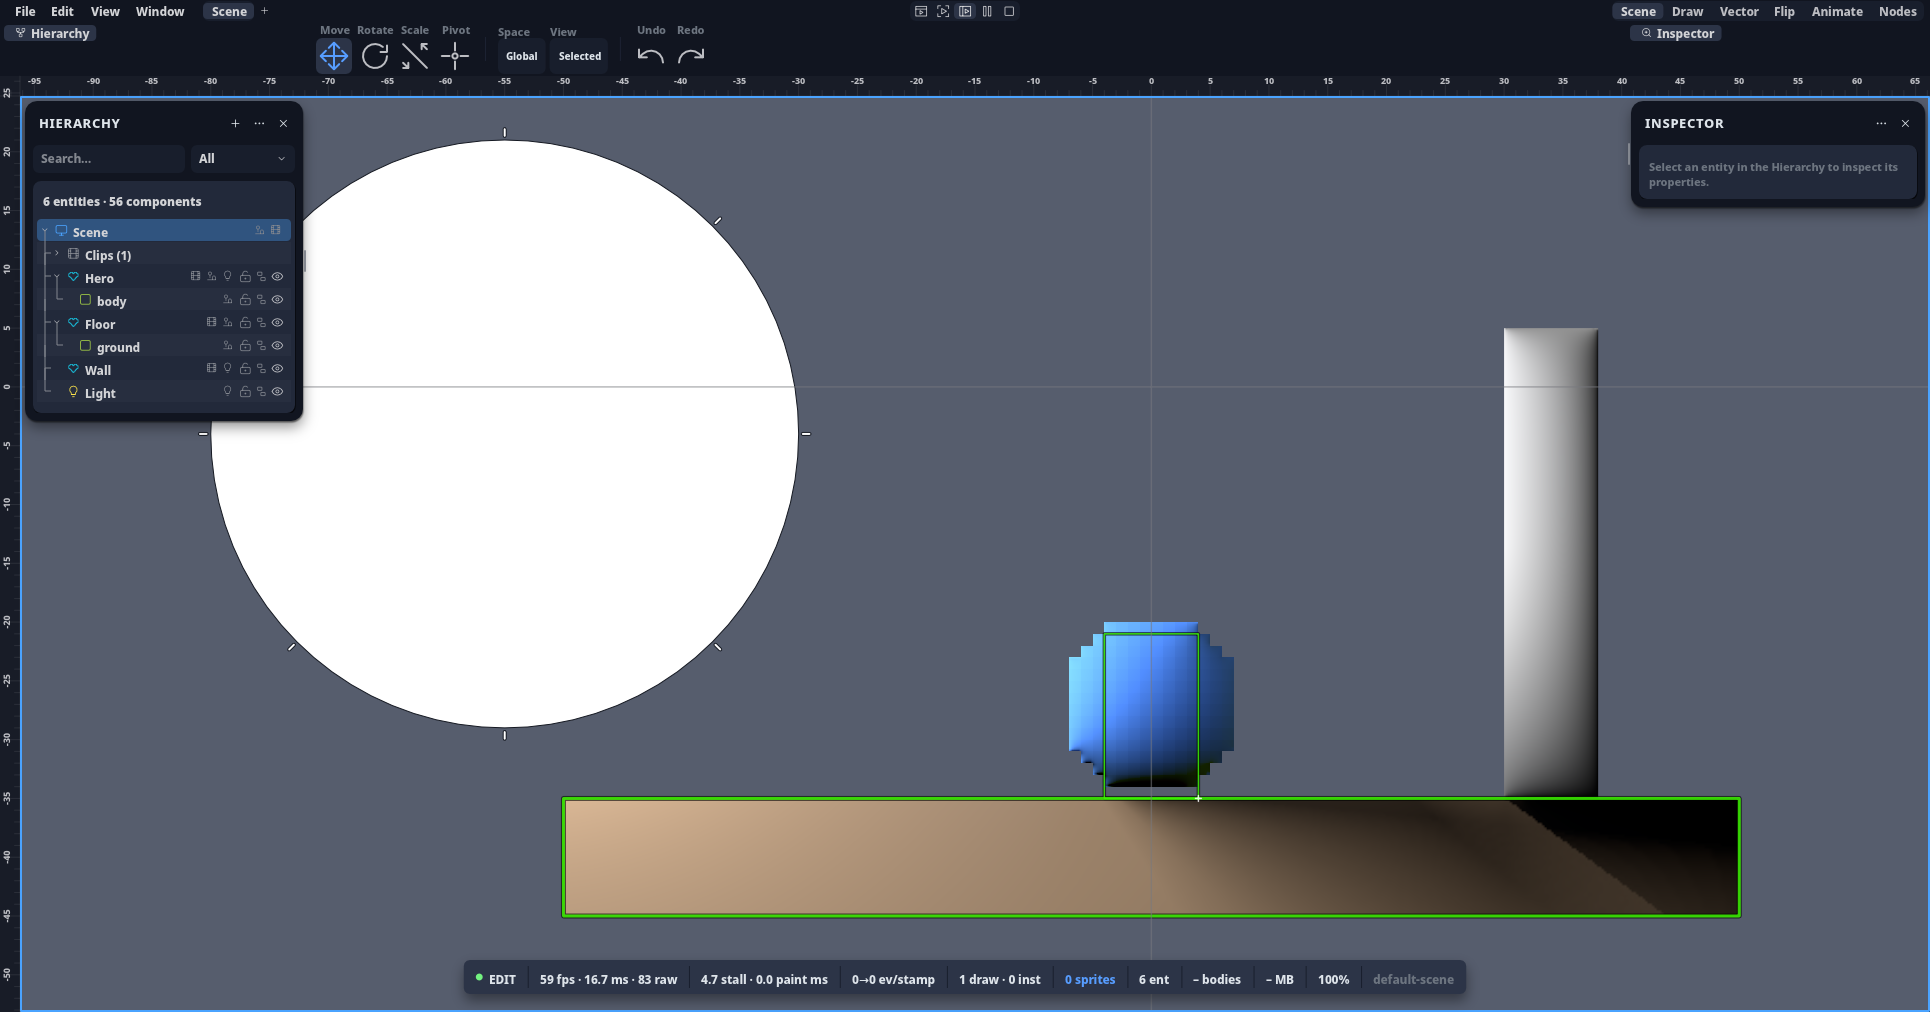
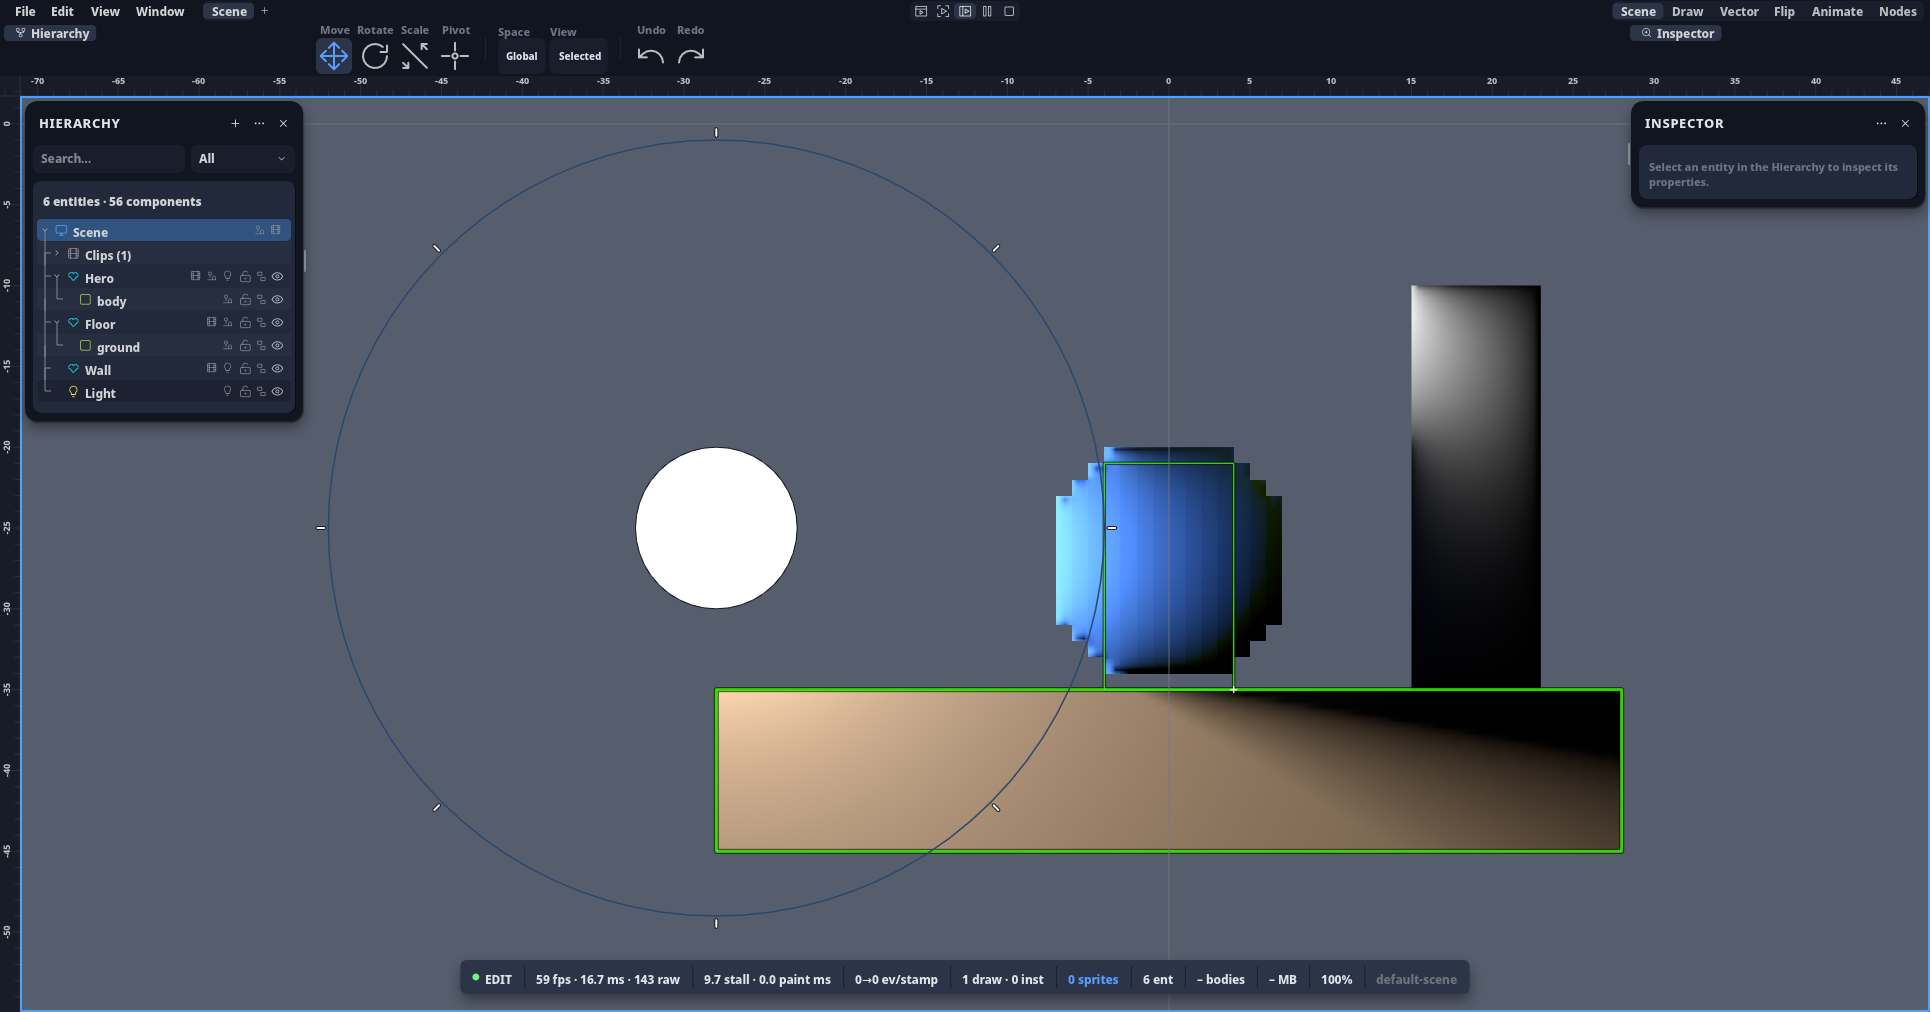
feat(pixel P14 cenas 26-27): cena 26 compacta — lâmpada de 5 cm e intensidade π, chão 56 px, parede 25 px; herói a 18,2 % da área do gate (era 11,2), ~1/4 na janela; sonda: razão 3,036/2,119, sombra 62 px², pouso 1,00 px; fotos refeitas

diff --git a/crates/ph2d-pixel-cenas/src/heroi.rs b/crates/ph2d-pixel-cenas/src/heroi.rs
@@ -13,15 +13,21 @@ use ph2d_pixel_core::{NewSprite, Op, Patch, Rect, Sprite, apply, slice};
 
 /// A régua da cena: a do projecto por omissão (`DEFAULT_PIXELS_PER_METER`).
 pub const PPM: f64 = 100.0;
-/// O herói nasce aqui (m) e cai.
-pub const HEROI: [f32; 2] = [0.0, 0.0];
-/// A lâmpada, acima e à esquerda do herói pousado: o ícone fica longe do chão e do herói, e o
-/// topo da sombra dele ainda cai na parede.
-pub const LAMPADA: [f32; 2] = [-0.55, -0.04];
-/// O chão: 100 × 10 px, centro em (0, −0,4) m ⇒ o topo em −0,35 m.
-pub const CHAO: (u32, u32, [f32; 2]) = (100, 10, [0.0, -0.4]);
-/// A parede: 8 × 40 px, centro em (0,34, −0,15) m ⇒ a face esquerda em x = 0,30 m, do chão a 0,05 m.
-pub const PAREDE: (u32, u32, [f32; 2]) = (8, 40, [0.34, -0.15]);
+/// O herói nasce aqui (m) e cai 14 cm até ao chão.
+pub const HEROI: [f32; 2] = [0.0, -0.2];
+/// A lâmpada, à esquerda do herói pousado e à altura do meio dele: a sombra cai na face da parede.
+/// A cena é compacta para o *Frame All* pôr o herói a ~1/4 da altura (o anel do objecto mede 24 px
+/// de arte de raio, a qualquer régua).
+pub const LAMPADA: [f32; 2] = [-0.28, -0.25];
+/// O disco da lâmpada da cena (m): 5 cm, um quinto do de fábrica, para não dominar a vista.
+pub const LAMPADA_RAIO_M: f32 = 0.05;
+/// A intensidade da cena: metade da de fábrica, porque a lâmpada está a metade da distância
+/// (0,28 m contra 0,55 m) — o herói recebe a mesma luz e não satura.
+pub const LAMPADA_INTENSIDADE: f32 = std::f32::consts::PI;
+/// O chão: 56 × 10 px, centro em (0, −0,4) m ⇒ o topo em −0,35 m.
+pub const CHAO: (u32, u32, [f32; 2]) = (56, 10, [0.0, -0.4]);
+/// A parede: 8 × 25 px, centro em (0,19, −0,225) m ⇒ a face esquerda em x = 0,15 m, do chão a −0,10 m.
+pub const PAREDE: (u32, u32, [f32; 2]) = (8, 25, [0.19, -0.225]);
 /// Cores das peças.
 pub const COR_CHAO: [u8; 4] = [120, 100, 80, 255];
 pub const COR_PAREDE: [u8; 4] = [200, 200, 200, 255];
@@ -132,7 +138,11 @@ pub fn monta(
         .spawn((
             em(LAMPADA[0], LAMPADA[1]),
             Name::new("Light"),
-            Luz::default(),
+            Luz {
+                tamanho_m: LAMPADA_RAIO_M,
+                intensidade: LAMPADA_INTENSIDADE,
+                ..Luz::default()
+            },
         ))
         .id();
     ph2d_ecs::assign_missing_stable_ids(world);

diff --git a/shells/pixel-scenes/tests/it/enquadrar.rs b/shells/pixel-scenes/tests/it/enquadrar.rs
@@ -108,8 +108,9 @@ fn posicao(sim: &SimWorld, e: Entity) -> [f32; 2] {
 }
 
 /// ⭐ *Frame All* na cena 26 enquadra o herói, o chão, a parede e a lâmpada; o herói (16 px) ocupa
-/// uma fracção legível da altura da vista (medido 11,2 % nesta área: o anel da Luz, 24 px de arte de
-/// raio, e o chão de 1 m mandam na largura), nunca os 16 px de 1000 da vista por omissão.
+/// uma fracção legível da altura da vista (medido 18,2 % nesta área de 1000 × 900 com a cena compacta
+/// de 09/11 — era 11,2 % com o chão de 1 m; na janela do app ~1/4), nunca os 16 px de 1000 da vista
+/// por omissão.
 #[test]
 fn o_frame_all_enquadra_o_pixel_sprite() {
     let (_app, mut sim) = montada();
@@ -130,7 +131,7 @@ fn o_frame_all_enquadra_o_pixel_sprite() {
         100.0 * fracao
     );
     assert!(
-        fracao > 0.10,
+        fracao > 0.15,
         "o herói ocupa só {:.1} % da altura da vista",
         100.0 * fracao
     );
